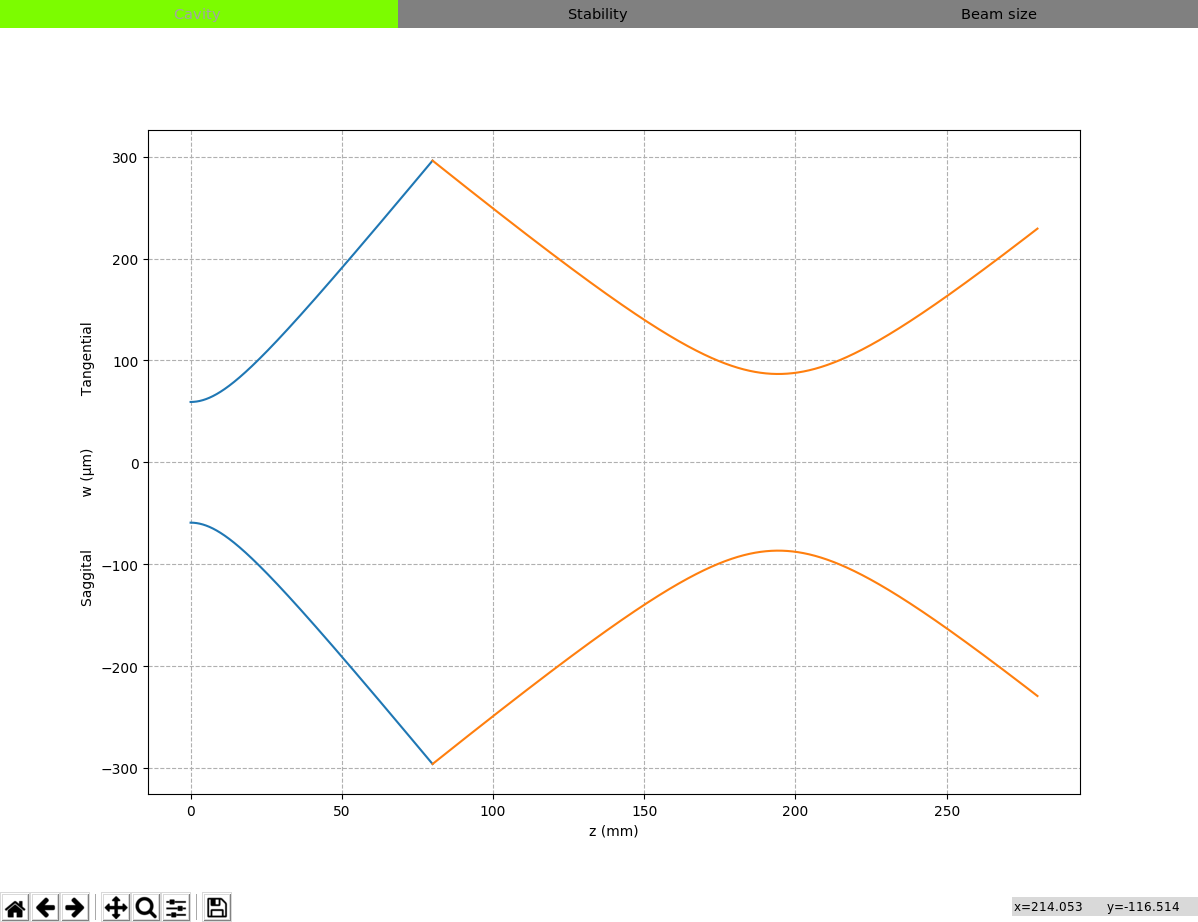
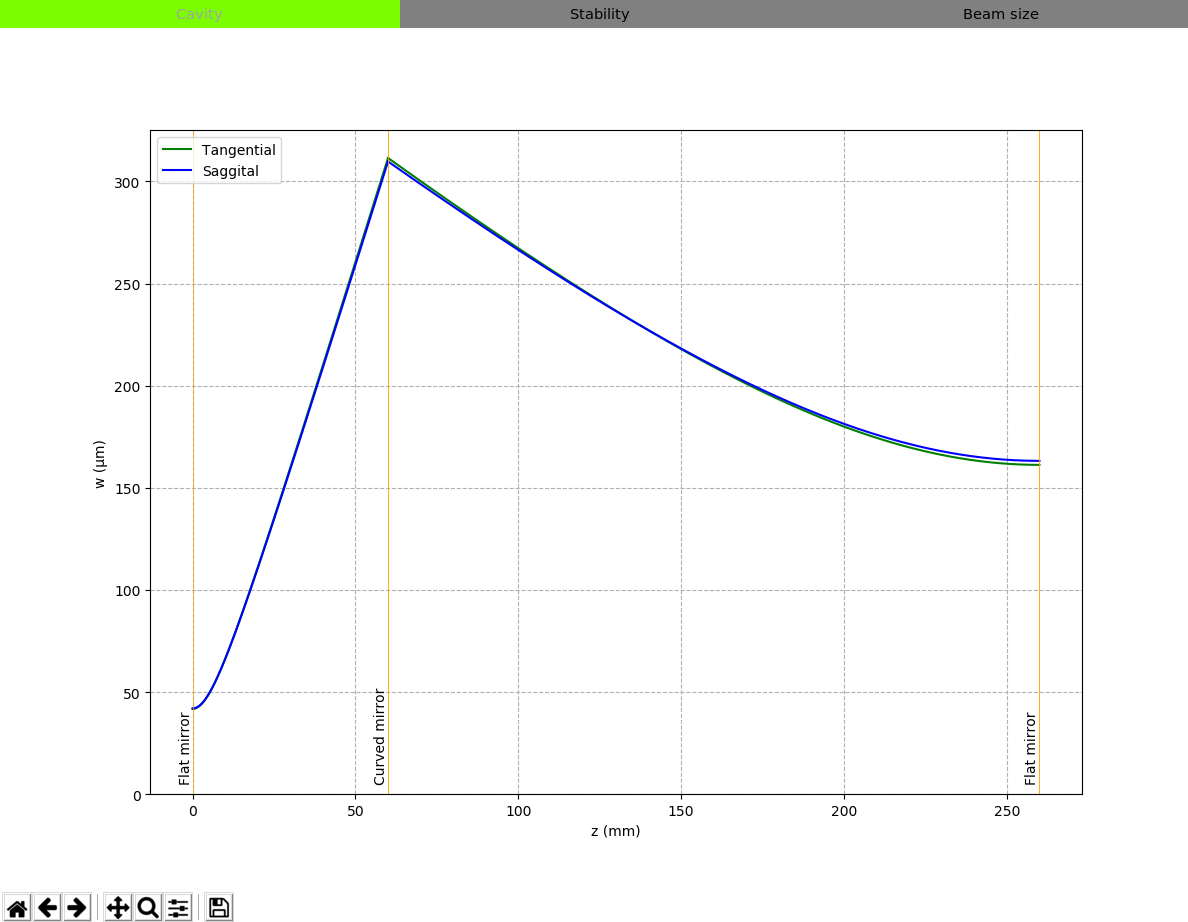
Clear plots for new cavity.

diff --git a/simcav_main.py b/simcav_main.py
@@ -163,7 +163,14 @@ class Toolbar(tk.Frame):
         master.elementbox.func_delete_button()
         # New fresh element list
         master.physics.element_list = []
-        # Ready to add elements
+        # Delete plots
+        master.framecentral.cavityplot.figureplot.clear()
+        master.framecentral.cavityplot.canvas.show()
+        for i in master.framecentral.__dict__:
+            if i in ['stabilityplot', 'beamsizeplot']:
+                master.framecentral.__dict__[i].plotframe.figureplot.clear()
+                master.framecentral.__dict__[i].plotframe.canvas.show()
+        # Call modify frame
         master.toolbar.func_button_add()
         master.warningbar.warbar_message('New cavity  --  Adding elements...', 'lawn green')
 
@@ -712,9 +719,6 @@ class Framecentral(tk.Frame):
             # Binds for color change (I think they aren't needed in linux)
             self.buttons[element].bind('<Enter>', self.func_color_enter)
             self.buttons[element].bind('<Leave>', self.func_color_leave)
-            
-        # Disable cavity button (cause it is the one active at start)
-        #self.buttons['a_cav'].config(state='disable', bg='lawngreen')
         
         self.cavityplot = Cavityplot(self, relief='flat', borderwidth=0, bg='white')
         self.cavityplot.pack(side='top', fill='both', expand=True)
@@ -1982,7 +1986,7 @@ if __name__ == "__main__":
     except:
         root.attributes('-zoomed', True)
     # Program version
-    versionnumber = '4.8.1'
+    versionnumber = '4.8.2'
     # Window title (version cap to first two numbers)
     root.wm_title("SimCav %.3s" %versionnumber)
     try:
